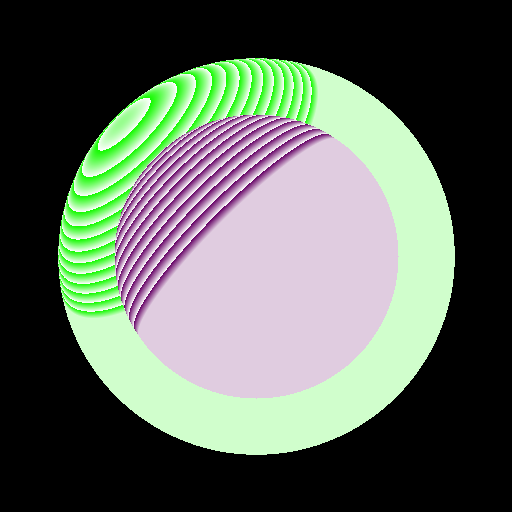
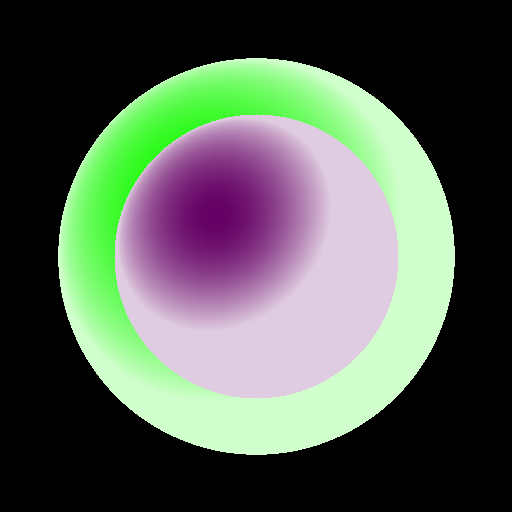
finished first version of diffuse using alpha values

Changed region(s): [[0.0938, 0.0938, 0.7812, 0.7812]]

diff --git a/Raytracer.java b/Raytracer.java
@@ -34,6 +34,9 @@ public class Raytracer{
         Matvec startposition = ray.direction.multreturn(t);
         Matvec lightdirection = lightposition.subreturn(startposition);
 
+        lightdirection.normalize();
+        
+
         Ray lightray = new Ray(lightdirection, startposition);
         return lightray;
     }
@@ -42,6 +45,7 @@ public class Raytracer{
         Matvec hitposition = ray.direction.multreturn(t);
         Matvec surfaceNormal = hitposition.subreturn(sphere.position);
         Ray result = new Ray(surfaceNormal, hitposition);
+        surfaceNormal.normalize();
         return result;
     }
 
@@ -186,7 +190,7 @@ public class Raytracer{
 
         //gradient(512, 512, "test");
 
-        double[] lamp = {5,-5, -13};
+        double[] lamp = {5,-5, -1};
         Matvec lampposition = new Matvec(lamp);
         double[] capos = {0,0,1};
         double[] lisapos = {0,0,-10};

diff --git a/Matvec.java b/Matvec.java
@@ -17,7 +17,7 @@ public class Matvec{
     public double dot(Matvec b){
         double product = 0; 
       
-        // Loop for calculate cot product 
+        // Loop to calculate dot product 
         for (int i = 0; i < 3; i++) 
             product = product + this.xyz[i] * b.xyz[i]; 
         return product;
